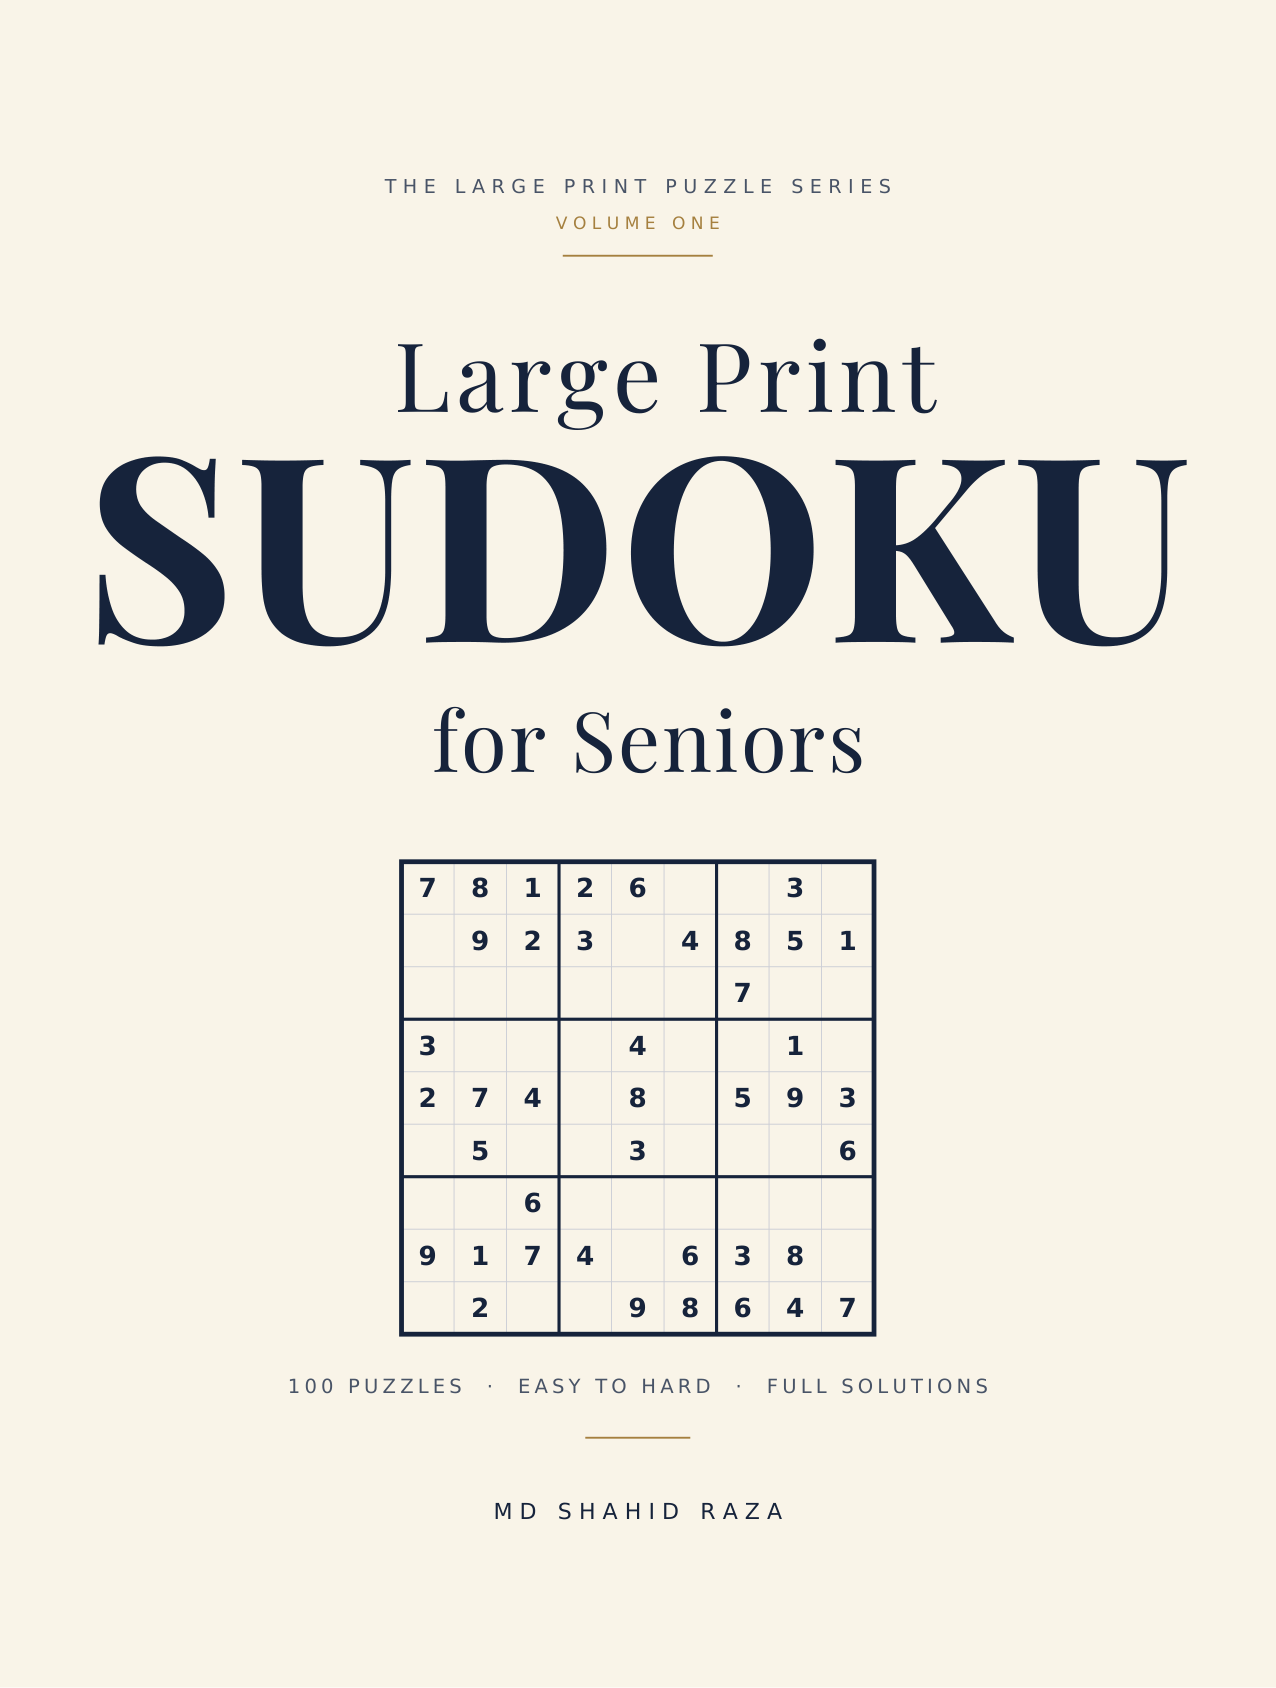
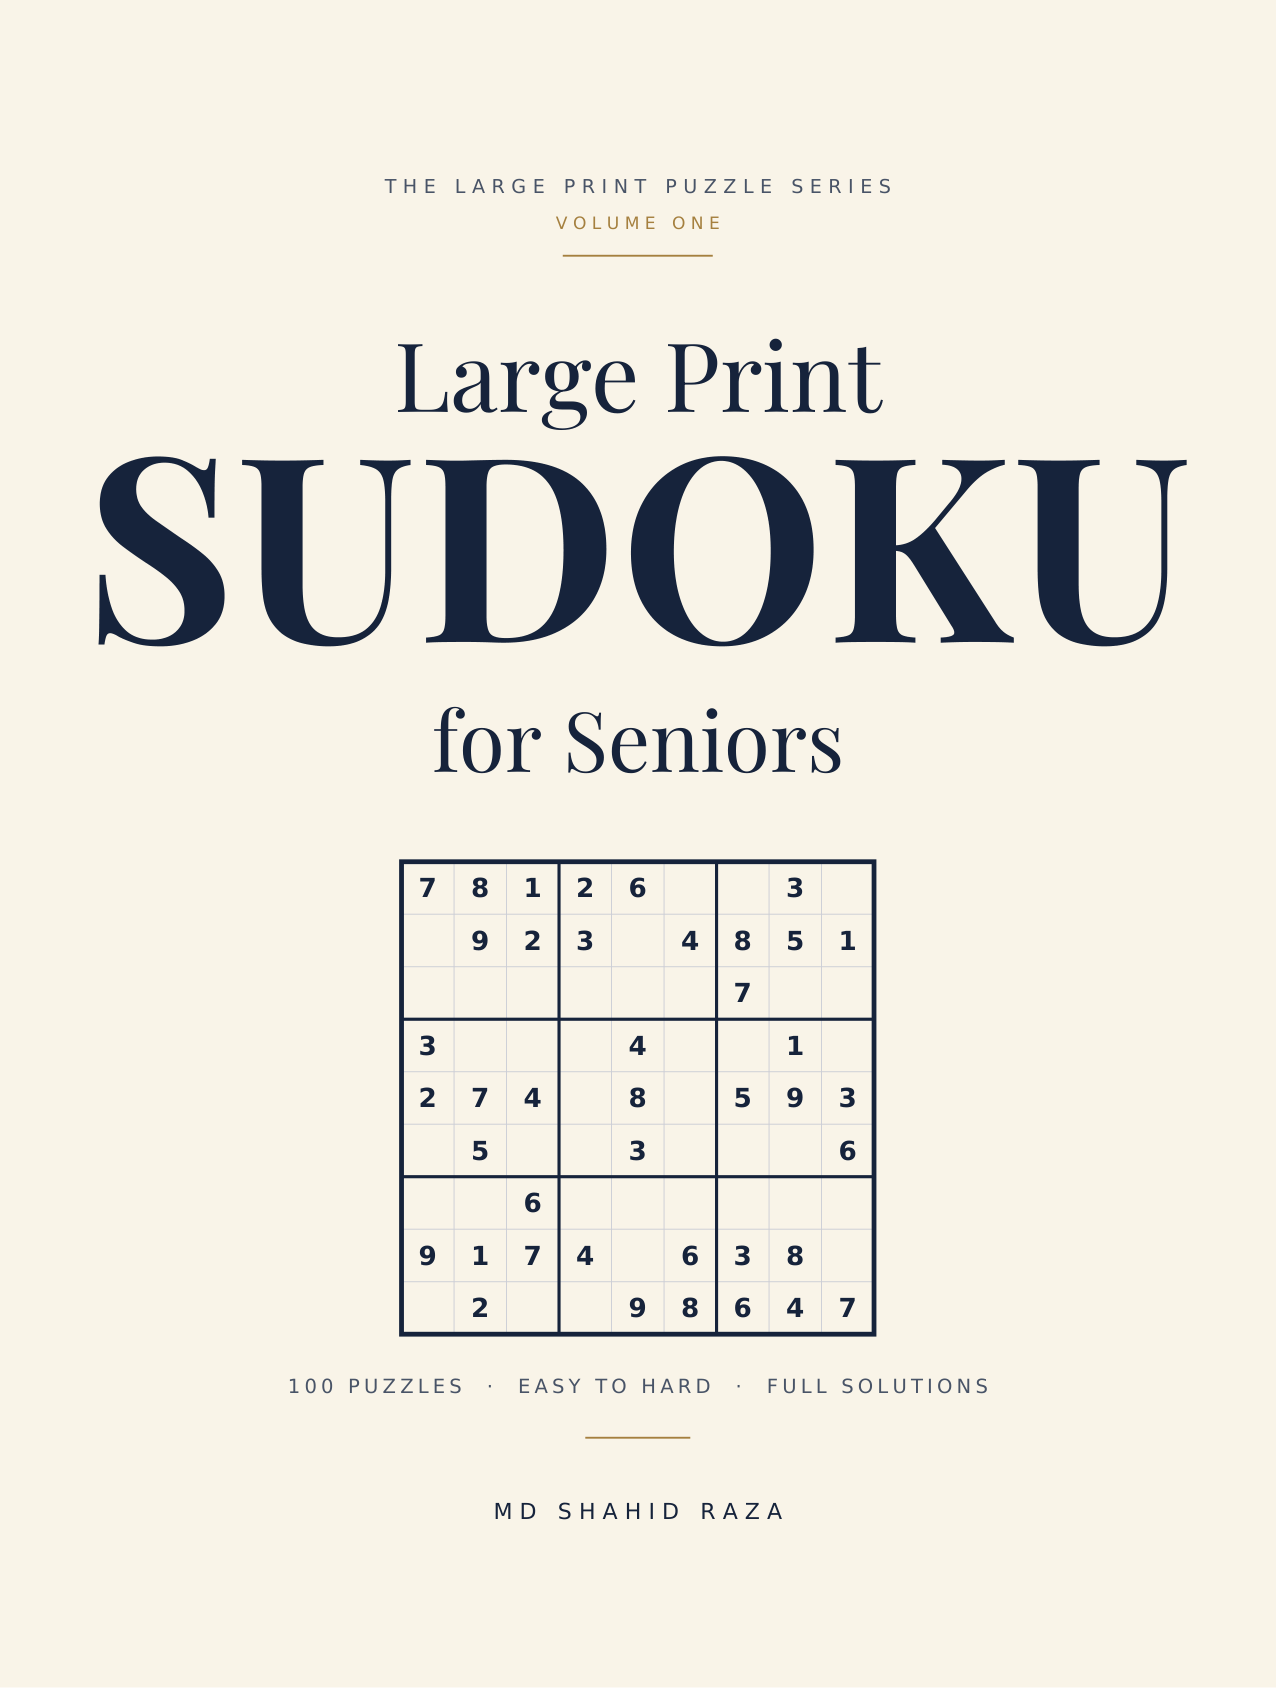
Size the back cover copy to the panel, and fix the orphan line
The blurb was hand-broken at 11.4 pt and stopped two inches above the closing
rule, leaving a hole in the middle of the panel. It is now set as large as the
panel allows (16.4 pt today) and wrapped to the measured width.

- make_cover.py: shared wrap() with an orphan guard; back panel laid out and
  auto-fitted instead of hand-broken; copy lives in main() as paragraphs
- make_cover_v2.py: imports wrap() instead of keeping its own copy
- back cover copy: one bullet tightened so it sets on a single line
- preview-cover.png, pack rebuilt; QC.md item 15

Changed region(s): [[0.3362, 0.1848, 0.7335, 0.2773], [0.3668, 0.4005, 0.6724, 0.4621]]

diff --git a/kdp/make_cover.py b/kdp/make_cover.py
@@ -82,6 +82,34 @@ def width(text: str, font: str, size: float, tracking: float = 0.0) -> float:
     return w
 
 
+def wrap(text: str, font: str, size: float, max_w: float) -> list[str]:
+    """Break one paragraph to a measured width, in points.
+
+    A last line of a single word ("...and a / pencil.") is a typographic
+    defect, so one word is pulled down from the line above when that still
+    fits. This also stops a too-large body size from filling the panel with
+    an accidental orphan.
+    """
+    lines, cur = [], ""
+    for word in text.split():
+        trial = f"{cur} {word}".strip()
+        if width(trial, font, size) <= max_w:
+            cur = trial
+        else:
+            if cur:
+                lines.append(cur)
+            cur = word
+    if cur:
+        lines.append(cur)
+
+    if len(lines) > 1 and len(lines[-1].split()) == 1:
+        head, last_word = lines[-2].rsplit(" ", 1) if " " in lines[-2] else ("", lines[-2])
+        merged = f"{lines[-1]} {last_word}" if not head else f"{last_word} {lines[-1]}"
+        if head and width(merged, font, size) <= max_w:
+            lines[-2], lines[-1] = head, merged
+    return lines
+
+
 def fit(text: str, font: str, max_w: float, start: float,
         tracking: float = 0.0, floor: float = 10.0) -> float:
     size = start
@@ -254,41 +282,80 @@ def build(args) -> str:
     c.setLineWidth(0.9)
     c.line(bx, by(1.12), pt(back_x + TRIM_W - 0.55), by(1.12))
 
-    head_size = fit(args.back_headline, f["display700"], bw, 25)
-    # wrap the headline on two lines
-    drawn(c, args.back_headline, bx, by(1.78), f["display700"], head_size, NAVY)
-
+    # --- back copy ------------------------------------------------------
+    # Set as large as the panel allows, then balanced in what is left.
+    # A large-print book should not carry 10-pt back-cover copy, and a blurb
+    # that stops two inches above the closing rule reads as a mistake.
     INK = Color(0.13, 0.15, 0.19)
-    y = 2.50
-    for para in args.back_paras:
-        for line in para:
-            drawn(c, line, bx, by(y), f["serif"], 11.4, INK)
-            y += 0.248
-        y += 0.24
+    TOP = 1.74                      # headline cap line, in from the trim top
+    HANG = 0.32                     # bullet indent, in inches
+    RULE_T = TRIM_H - 1.95          # the closing rule, pinned near the foot
+    CLOSE = 1.00                    # air wanted between the copy and the rule
 
-    y += 0.04
-    for bullet in args.bullets:
-        c.setFillColor(GOLD)
-        c.setFont(f["sans_b"], 11.0)
-        c.drawString(bx, by(y), "—")
-        drawn(c, bullet, bx + pt(0.28), by(y), f["serif"], 11.4, INK)
-        y += 0.335
+    head_size = fit(args.back_headline, f["display700"], bw, 26)
 
-    y += 0.18
-    for para in args.back_tail:
-        for line in para:
-            drawn(c, line, bx, by(y), f["serif"], 11.4, INK)
-            y += 0.248
-        y += 0.22
+    def layout(size, offset=0.0):
+        """Lay the panel out at a given body size; return rows and the end y."""
+        lead = size * 1.38 / 72.0
+        rows, y = [], TOP + offset
+        for line in wrap(args.back_headline, f["display700"], head_size, bw):
+            rows.append(("head", line, y))
+            y += head_size * 1.30 / 72.0
+        y += head_size * 0.52 / 72.0
+        for para in args.back_paras:
+            for line in wrap(para, f["serif"], size, bw):
+                rows.append(("body", line, y))
+                y += lead
+            y += lead * 0.82
+        y += 0.04
+        for bullet in args.bullets:
+            lines = wrap(bullet, f["serif"], size, bw - pt(HANG))
+            for i, line in enumerate(lines):
+                rows.append(("bullet" if i == 0 else "hang", line, y))
+                y += lead
+            y += lead * 0.34
+        y += lead * 0.85
+        for para in args.back_tail:
+            for line in wrap(para, f["serif"], size, bw):
+                rows.append(("body", line, y))
+                y += lead
+            y += lead * 0.78
+        return rows, y
 
-    # closing rule, then the author beneath it. Centred, it clears the barcode
-    # block (which starts 6.375 in from the left trim edge) without guessing.
-    rule_y = by(TRIM_H - 1.95)
+    # Pick the largest body size that still leaves the copy a clear inch above
+    # the closing rule. Larger copy fills the panel; too large and the blurb
+    # crowds the rule, which looks like a mistake rather than a decision.
+    avail = RULE_T - CLOSE - TOP
+    body, best = 12.0, 12.0
+    while body <= 18.0:
+        if layout(body)[1] - TOP <= avail:
+            best = body
+        body = round(body + 0.1, 1)
+    rows, end = layout(best)
+    body = best
+
+    for kind, line, y in rows:
+        if kind == "head":
+            drawn(c, line, bx, by(y), f["display700"], head_size, NAVY)
+        elif kind == "bullet":
+            c.setFillColor(GOLD)
+            c.setFont(f["sans_b"], body * 0.95)
+            c.drawString(bx, by(y), "\u2014")
+            drawn(c, line, bx + pt(HANG), by(y), f["serif"], body, INK)
+        elif kind == "hang":
+            drawn(c, line, bx + pt(HANG), by(y), f["serif"], body, INK)
+        else:
+            drawn(c, line, bx, by(y), f["serif"], body, INK)
+
+    # Closing rule, then the author beneath it. The rule stays at the foot of
+    # the panel: with the text sized to leave it about an inch of air, the
+    # space above reads as margin, and both ends clear the barcode block.
+    rule_t = RULE_T
     c.setStrokeColor(GOLD)
     c.setLineWidth(0.9)
-    c.line(bx, rule_y, pt(back_x + TRIM_W - 0.55), rule_y)
+    c.line(bx, by(rule_t), pt(back_x + TRIM_W - 0.55), by(rule_t))
 
-    drawn(c, args.author.upper(), pt(back_x + TRIM_W / 2.0), by(TRIM_H - 1.52),
+    drawn(c, args.author.upper(), pt(back_x + TRIM_W / 2.0), by(rule_t + 0.46),
           f["sans"], 8.6, NAVY, tracking=3.0, align="center")
 
     # Barcode: KDP prints its own in a 2.0 x 1.2 in clear area 0.25 in from the
@@ -325,22 +392,22 @@ def main() -> int:
         print(f"  note: could not load {args.puzzles_json} ({exc}); motif left empty")
 
     args.back_paras = [
-        ["100 Sudoku puzzles, printed one per page on a seven-inch grid, with",
-         "digits about a third of an inch tall. Room to think, room for pencil",
-         "marks, and none of the cramped little squares that make ordinary",
-         "puzzle books tiring."],
+        "100 Sudoku puzzles, printed one per page on a seven-inch grid, with "
+        "digits about a third of an inch tall. Room to think, room for pencil "
+        "marks, and none of the cramped little squares that make ordinary "
+        "puzzle books tiring.",
     ]
     args.bullets = [
-        "40 Easy, 35 Medium, 25 Hard — every one solvable by logic alone",
+        "40 Easy, 35 Medium, 25 Hard — each solvable by logic alone",
         "Each puzzle checked to have exactly one solution",
         "A how-to-play refresher and a three-step way in",
         "Full solutions at the back, six to a page",
     ]
     args.back_tail = [
-        ["The Easy section can be finished by simple scanning, which makes it a",
-         "gentle return for anyone coming back to Sudoku. The Hard section is a",
-         "genuine step up."],
-        ["Large print. One puzzle per page. A quiet half hour and a pencil."],
+        "The Easy section can be finished by simple scanning, which makes it a "
+        "gentle return for anyone coming back to Sudoku. The Hard section is a "
+        "genuine step up.",
+        "Large print. One puzzle per page. A quiet half hour and a pencil.",
     ]
 
     path = build(args)

diff --git a/kdp/make_cover_v2.py b/kdp/make_cover_v2.py
@@ -22,7 +22,7 @@ from reportlab.lib.colors import Color, HexColor
 from reportlab.pdfgen import canvas
 
 from make_cover import (BLEED, PAPER_PPI, TRIM_H, TRIM_W, drawn, fit,
-                        register_fonts, width)
+                        register_fonts, width, wrap)
 
 NAVY = HexColor("#18263E")
 CREAM = HexColor("#F9F3E3")
@@ -34,22 +34,6 @@ GOLD_DEEP = HexColor("#8E6C31")
 GRID_FINE = Color(0.271, 0.314, 0.376)      # navy + 20% cream
 GRID_BLOCK = Color(0.365, 0.396, 0.451)     # navy + 32% cream
 BG = NAVY
-
-
-def wrap(text: str, font: str, size: float, max_w: float) -> list[str]:
-    """Break a paragraph to a measured width."""
-    words, lines, cur = text.split(), [], ""
-    for word in words:
-        trial = f"{cur} {word}".strip()
-        if width(trial, font, size) <= max_w:
-            cur = trial
-        else:
-            if cur:
-                lines.append(cur)
-            cur = word
-    if cur:
-        lines.append(cur)
-    return lines
 
 
 def build(args) -> str:

diff --git a/kdp/README.md b/kdp/README.md
@@ -240,6 +240,13 @@ finish the interior first, then rebuild the cover:
 `--pages` must match the interior. The script prints the spine and wrap size it used —
 check them against KDP's own template before uploading.
 
+**The back-cover copy is sized to the panel, not typed in.** `make_cover.py` picks the
+largest body size (to 18 pt) that still leaves the blurb a clear inch above the closing
+rule, wraps every paragraph to the measured width, and pulls the odd word down so no
+line ends as a single orphan ("…and a / pencil."). Today that lands at 16.4 pt, which
+suits a large-print book: the person reading the back cover is the person the large type
+is for. Edit the copy in `main()` and the size re-solves itself — nothing to retune.
+
 The barcode area (2.0 × 1.2 in, 0.25 in from the trim edges, bottom-right of the
 back panel) is deliberately left blank. Amazon prints the barcode there; anything you
 put in that zone gets a sticker over it.

diff --git a/kdp/QC.md b/kdp/QC.md
@@ -86,6 +86,9 @@ Recorded because they are the reason to run it again.
     heading and into the body text after it. Both cover scripts now set it on every text
     block, zero included. The blurb's line breaks changed once fixed, which is why the
     earlier version read a line long.
+15. **Back-cover copy stopped two inches short of the closing rule**, leaving a hole in
+    the middle of the panel, and it was set at 11.4 pt on a large-print book. The copy is
+    now sized to the panel and wrapped to the measure: 16.4 pt, no hole, no orphan line.
 
 ---
 
